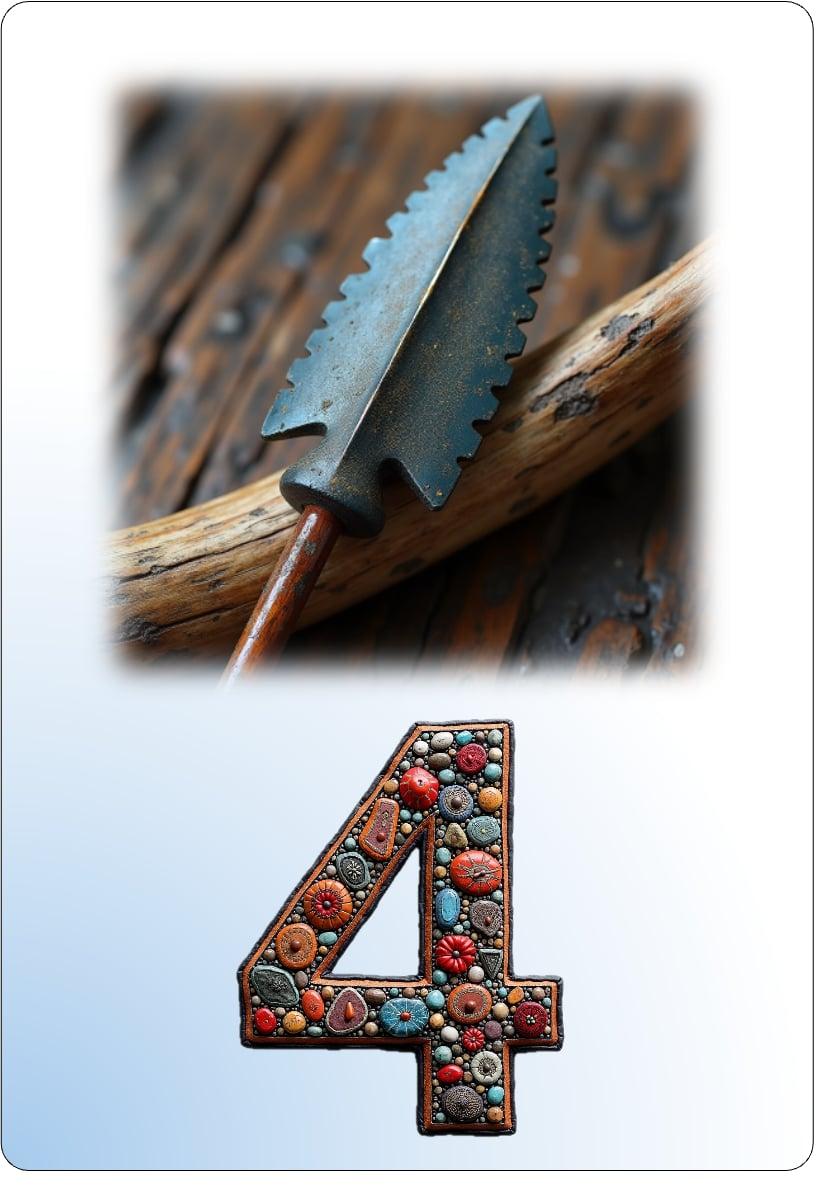
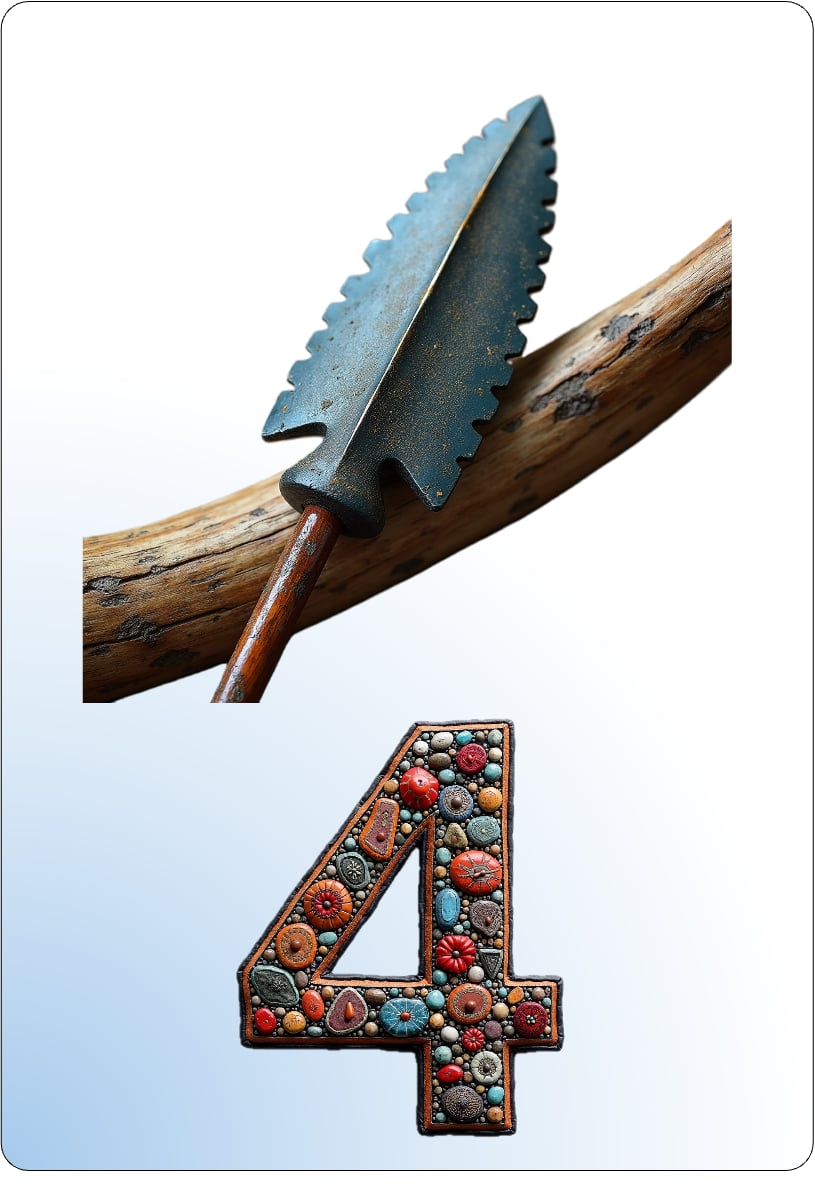
Cartes-gagnant.e : apercu a l'echelle, lot Carte6 et fin du cache colle
Ticket #43 de Sylvain, reste sans reponse depuis 8 jours.

- imprimer-trophees.html : les pages A4 selectionnees etaient empilees en
  colonne, donc la 2e carte tombait sous le pli sans defilement auto — d'ou
  « il faut annuler le clic precedent ». Elles sont desormais reduites
  (--k, pose par rendre()) et disposees en ligne. L'impression est inchangee :
  le @media print annule la mise a l'echelle et rend du A4 reel.

- cartes/clan-*.jpg : lot Carte6 fourni par Sylvain le 28 juillet — le carre
  noir de la carte du Loup a disparu et les 4 fonds sont harmonises. Seules
  ces 4 images changent, les 72 cartes chiffres sont bit-a-bit identiques.

- server.js : /cartes/* passe en no-cache, must-revalidate. Les URLs des
  cartes sont posees en JS (CLANS[].image), donc hors du systeme ?v=HASH qui
  ne couvre que les <script>/<link> — Sylvain devait passer en navigation
  privee pour voir les nouvelles images, manoeuvre qu'il ne sait pas faire.

- imprimer.html : le clan Loup n'avait plus aucune case surlignee depuis la
  refonte de juillet (il valait « 4 coins », il vaut « une ligne », et
  estCible ne gerait pas ce cas). Une rangee d'exemple en tirets, distincte
  du surlignage plein, pour ne pas la faire passer pour la seule gagnante.

Verifie : npm test 6/6, plus 16 assertions jsdom sur les deux pages
(nombre de pages, echelle, dimensions A4 preservees, cibles des 4 clans)
et controle visuel Chrome ecran + emulation print.

Changed region(s): [[0.092, 0.0619, 0.9202, 0.5878]]

diff --git a/imprimer-trophees.html b/imprimer-trophees.html
@@ -52,7 +52,15 @@
     .btn-print:disabled { background: #ccc; cursor: not-allowed; opacity: 1; }
 
     /* ── Page A4 portrait ── */
-    .pages-wrap { display: flex; flex-direction: column; gap: 12px; align-items: center; }
+    /* À l'écran, les pages sont réduites (--k, posé par rendre()) et disposées
+       en ligne : la carte qu'on vient de sélectionner est visible sans défiler.
+       La page garde ses dimensions réelles — seul l'affichage est mis à
+       l'échelle, l'impression est inchangée (cf. @media print plus bas). */
+    .pages-wrap { display: flex; flex-direction: row; flex-wrap: wrap; gap: 12px; justify-content: center; }
+    /* Le slot réserve la place occupée après mise à l'échelle : sans lui, le
+       transform laisserait un trou de 297mm dans le flux. */
+    .page-slot { width: calc(210mm * var(--k, 1)); height: calc(297mm * var(--k, 1)); }
+    .page-slot > .page { transform: scale(var(--k, 1)); transform-origin: top left; }
     .page {
       width: 210mm; height: 297mm;
       background: white;
@@ -158,7 +166,10 @@
     @media print {
       body { background: white; padding: 0; }
       .controls, .empty-state { display: none; }
-      .pages-wrap { gap: 0; }
+      /* Annule la mise à l'échelle de l'aperçu : on imprime en A4 réel. */
+      .pages-wrap { display: block; gap: 0; }
+      .page-slot { width: auto; height: auto; }
+      .page-slot > .page { transform: none; }
       .page { box-shadow: none; margin: 0; }
       @page { size: A4 portrait; margin: 0; }
     }
@@ -259,11 +270,18 @@
     const nom  = document.getElementById('input-nom').value.trim();
     const date = document.getElementById('input-date').value.trim();
 
+    // Échelle de l'aperçu : une seule carte reste lisible, quatre tiennent ensemble.
+    const taille = clansSelectionnes.size;
+    wrap.style.setProperty('--k', taille === 1 ? '.62' : taille === 2 ? '.5' : '.34');
+
     // Ordre fixe : préséance du mythe de création (Chevreuil → Tortue → Ours → Loup),
     // porté par l'ordre des clés de CLANS dans data.js.
     Object.keys(CLANS).forEach(clanNom => {
       if (!clansSelectionnes.has(clanNom)) return;
-      wrap.appendChild(creerPage(clanNom, nom, date));
+      const slot = document.createElement('div');
+      slot.className = 'page-slot';
+      slot.appendChild(creerPage(clanNom, nom, date));
+      wrap.appendChild(slot);
     });
   }
 

diff --git a/imprimer.html b/imprimer.html
@@ -154,6 +154,12 @@
       outline: 1.5px solid var(--clan-c, #d35400);
       outline-offset: -1.5px;
     }
+    /* Ligne d'exemple (clan Loup) : en tirets et sans fond plein, pour se lire
+       comme une illustration et non comme la seule ligne gagnante possible. */
+    .cell.cible-exemple {
+      outline: 1.5px dashed var(--clan-c, #d35400);
+      outline-offset: -1.5px;
+    }
 
     /* ── Cœur fusionné — mosaïque 2×2 d'animaux ── */
     .coeur-merged {
@@ -413,7 +419,8 @@
         }
         const val  = valeurCase(donnees, ligne, col);
         const cell = document.createElement('div');
-        cell.className   = estCible(clan, ligneIdx, col) ? 'cell cible' : 'cell';
+        const cls  = classeCible(clan, ligneIdx, col);
+        cell.className   = cls ? 'cell ' + cls : 'cell';
         cell.textContent = val || '';
         grid.appendChild(cell);
       }
@@ -515,15 +522,21 @@
     return merged;
   }
 
-  // Cases cibles à surligner selon le clan
-  function estCible(clan, ligneIdx, colIdx) {
-    if (!clan || clan === 'melange') return false;
+  // Cases cibles à surligner selon le clan.
+  // Retourne la classe CSS à poser ('cible' ou 'cible-exemple'), ou '' si la
+  // case n'est pas visée par la condition de victoire du clan.
+  function classeCible(clan, ligneIdx, colIdx) {
+    if (!clan || clan === 'melange') return '';
     const ligne = LIGNES[ligneIdx];
     const v = CLANS[clan].victoire;
-    if (v === 'coins')  return (ligneIdx === 0 || ligneIdx === 5) && (colIdx === 0 || colIdx === 5);
-    if (v === 'carre')  return ligneIdx >= 1 && ligneIdx <= 4 && colIdx >= 1 && colIdx <= 4 && !estCoeur(ligne, colIdx);
-    if (v === 'pleine') return !estCoeur(ligne, colIdx);
-    return false;
+    if (v === 'coins')  return ((ligneIdx === 0 || ligneIdx === 5) && (colIdx === 0 || colIdx === 5)) ? 'cible' : '';
+    if (v === 'carre')  return (ligneIdx >= 1 && ligneIdx <= 4 && colIdx >= 1 && colIdx <= 4 && !estCoeur(ligne, colIdx)) ? 'cible' : '';
+    if (v === 'pleine') return estCoeur(ligne, colIdx) ? '' : 'cible';
+    // 'ligne' (Loup) : n'importe quelle rangée, colonne ou diagonale convient.
+    // On illustre la première rangée en tirets — la surligner en plein
+    // laisserait croire que c'est la seule ligne gagnante.
+    if (v === 'ligne')  return ligneIdx === 0 ? 'cible-exemple' : '';
+    return '';
   }
 
   initSelector();

diff --git a/server.js b/server.js
@@ -313,6 +313,15 @@ app.get(/\.html$|^\/$/, (req, res, next) => {
   }
 });
 
+// Les cartes sont remplacees a chaque lot fourni par le client, et leurs URLs
+// sont posees en JS (CLANS[].image) — donc hors du systeme ?v=HASH qui ne
+// couvre que les <script>/<link>. On force navigateur et Cloudflare a
+// revalider : 304 tant que rien ne bouge, image a jour des le deploiement.
+// Sans ca, il faut passer en navigation privee pour voir les nouvelles cartes.
+app.use('/cartes', express.static(path.join(__dirname, 'cartes'), {
+  setHeaders: res => res.setHeader('Cache-Control', 'no-cache, must-revalidate'),
+}));
+
 // Sert tous les fichiers statiques (JS, CSS, audio, images, et les HTML
 // non interceptes par la regex ci-dessus en fallback).
 app.use(express.static(path.join(__dirname)));

diff --git a/scripts/export-cartes.js b/scripts/export-cartes.js
@@ -4,7 +4,7 @@ const path = require('path');
 const sharp = require('sharp');
 const { CLANS } = require('../data');
 
-const SRC = path.resolve(__dirname, '..', '..', '_sources', 'Wendio', 'Carte5');
+const SRC = path.resolve(__dirname, '..', '..', '_sources', 'Wendio', 'Carte6');
 const DST = path.resolve(__dirname, '..', 'cartes');
 const QUALITY = 85;
 

diff --git a/CLAUDE.md b/CLAUDE.md
@@ -69,7 +69,7 @@ Then open `http://localhost:3000` (redirects to `lobby.html`).
 | `cartes/` | 72 cartes numérotées + 4 cartes-gagnant·e par clan (`clan-<nom>.jpg`, chemin déclaré dans `CLANS[].image`). Voir `cartes/README-images-clans.md` |
 | `sound/` | WAV audio files named `Wendat numbers {num}.wav` |
 | `sources/` | PNG des 4 animaux clans (utilisés dans `accueil.html`) |
-| `scripts/export-cartes.js` | Conversion `D:/_sources/Wendio/Carte5/*.png` → `cartes/*.jpg` (sharp, qualité 85). `SRC` = dernier lot Sylvain rangé dans `_sources/Wendio/CarteN` (v1=`Carte`, v2=`Carte2`… v5=`Carte5`) ; bumper `SRC` à chaque nouveau lot. Sans filtre — le client gère le rendu côté source |
+| `scripts/export-cartes.js` | Conversion `D:/_sources/Wendio/Carte6/*.png` → `cartes/*.jpg` (sharp, qualité 85). `SRC` = dernier lot Sylvain rangé dans `_sources/Wendio/CarteN` (v1=`Carte`, v2=`Carte2`… v6=`Carte6`) ; bumper `SRC` à chaque nouveau lot. **Un dossier `CarteN` = un lot complet (76 PNG)** : si Sylvain ne refournit qu'une partie des cartes, recopier les autres depuis le lot précédent. Sans filtre — le client gère le rendu côté source |
 | `deploy/` | Scripts de déploiement VPS Ubuntu 24.04 dédié jeux Sylvain : `setup-vps.sh`, `Caddyfile`, `wendio.service`, `install-wendio.sh`, `deploy.sh` (cf. section Déploiement) |
 | `Manual/` | Documents de référence (gitignored) : PPTX, PDFs règles, vidéo démo |
 
